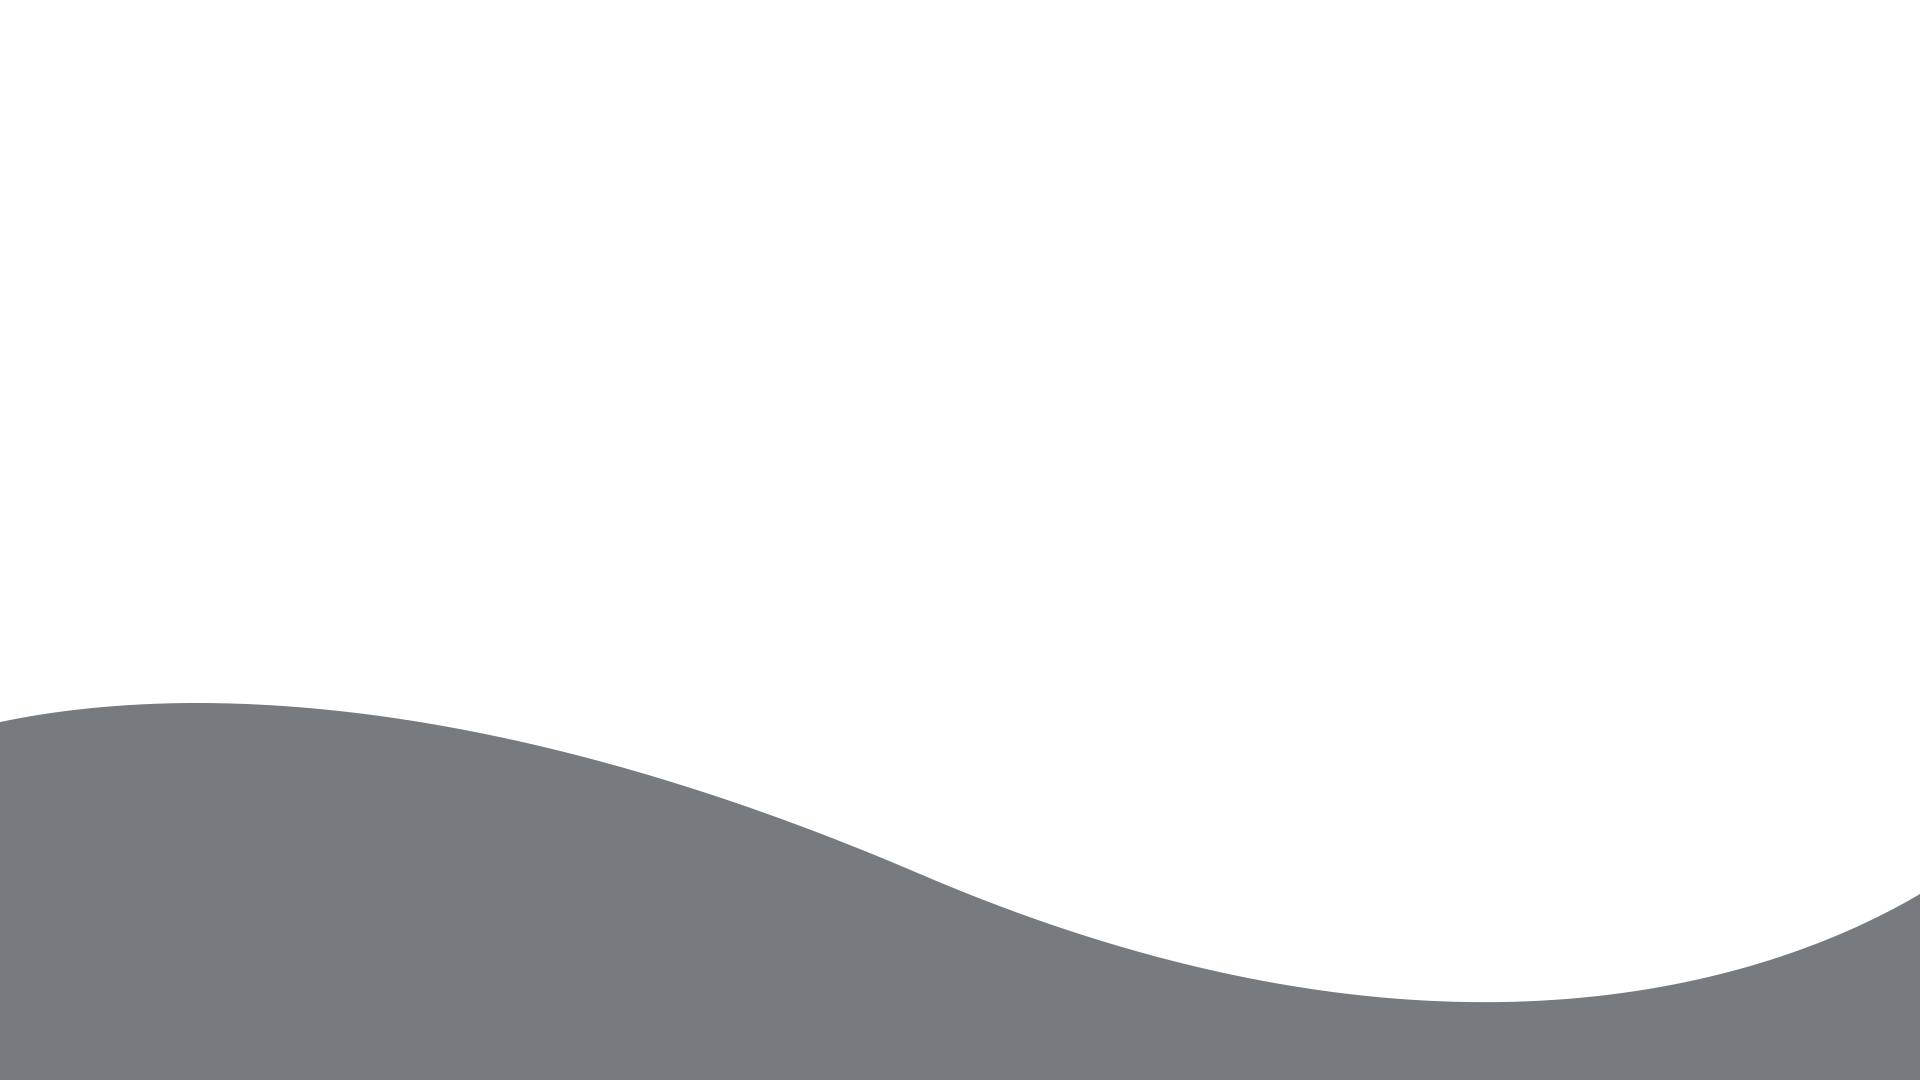
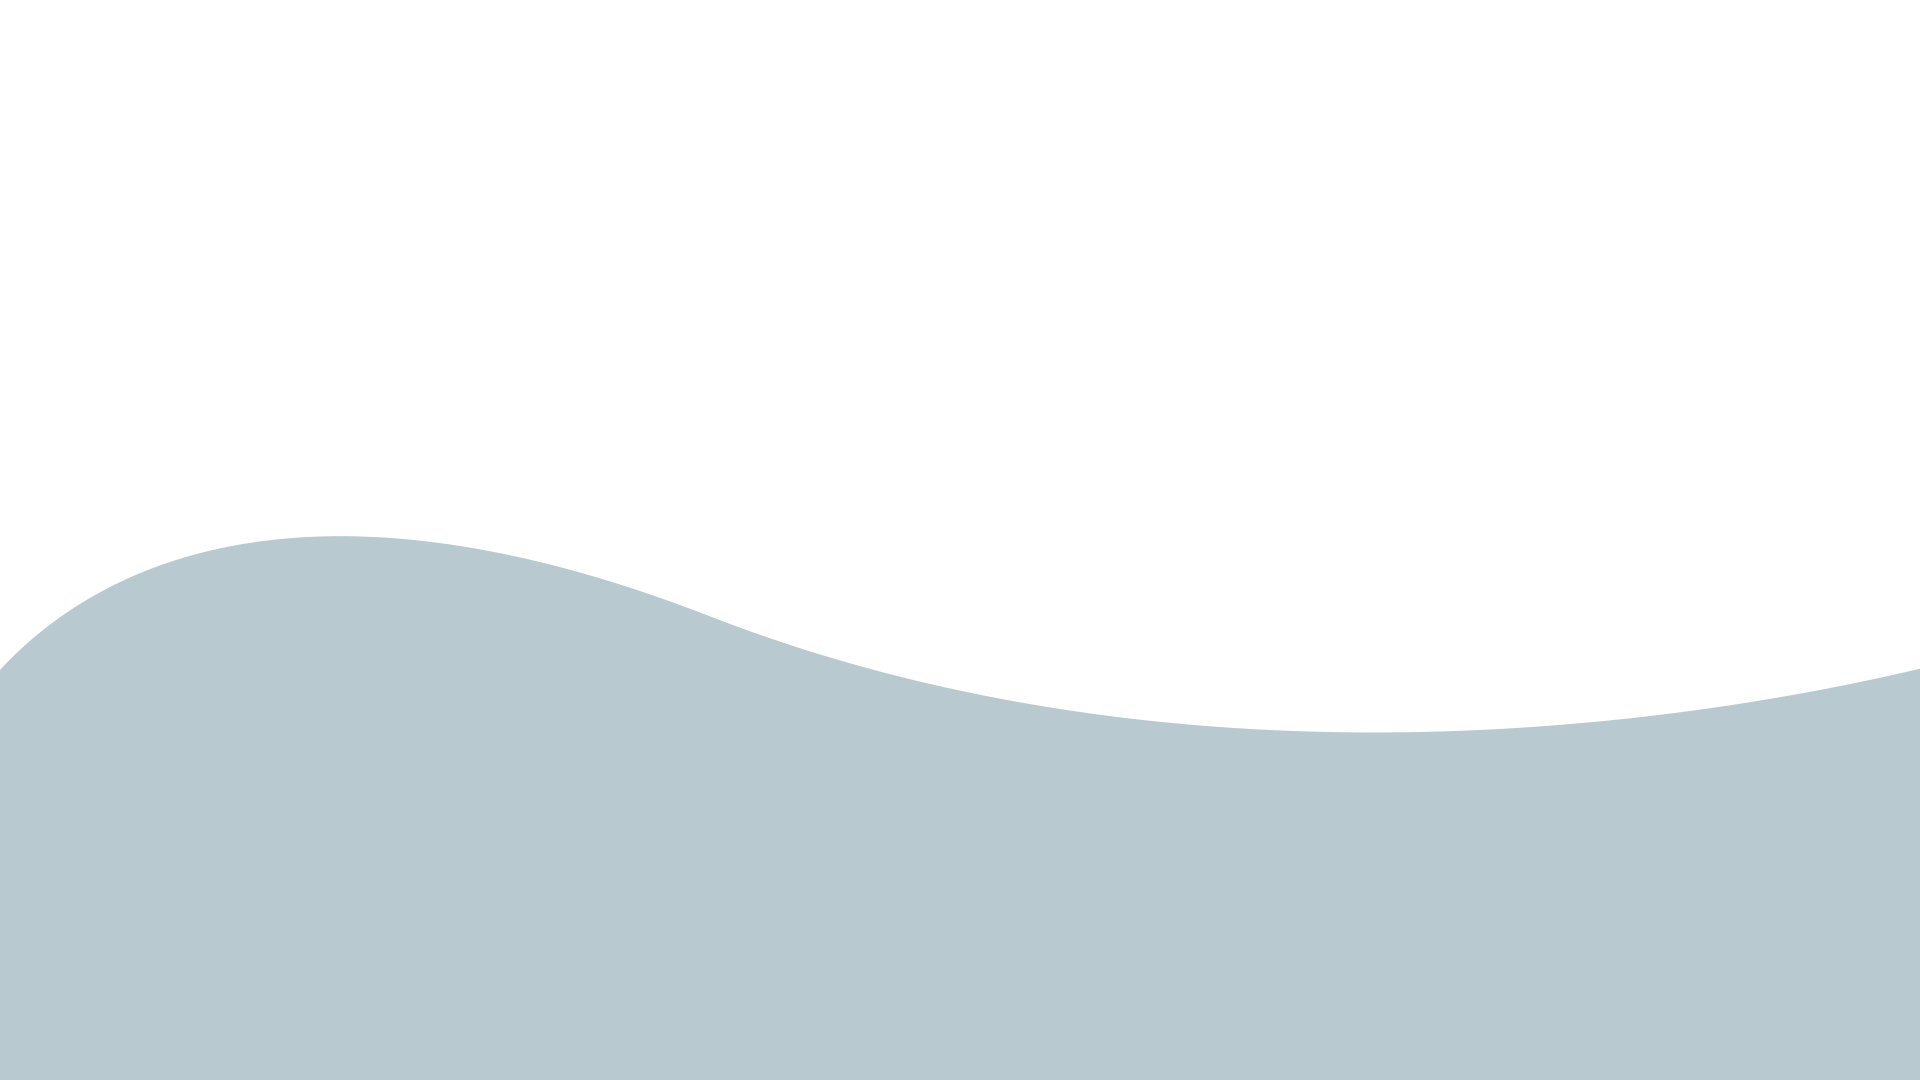
images changed

diff --git a/lib/widgets/parallax.dart b/lib/widgets/parallax.dart
@@ -9,8 +9,18 @@ class HomePage extends StatefulWidget {
 
 class _HomePageState extends State<HomePage> {
   
-  double topOne = 0;
-  double topTwo = 100;
+  double rateOne = 0;
+  double rateTwo = 0;
+  double rateThree = 0;
+  double rateFour = 0;
+  double rateFive = 0;
+  double rateSix = 0;
+  double rateSeven = 0;
+
+
+
+  late String asset;
+  late double top;
 
   @override
   Widget build(BuildContext context) {
@@ -19,8 +29,13 @@ class _HomePageState extends State<HomePage> {
         onNotification: (v) {
           if(v is ScrollUpdateNotification){
             setState(() {
-              topOne = topOne - v.scrollDelta! / 3;
-              topTwo = topTwo - v.scrollDelta! / 1;
+              rateSeven -= v.scrollDelta! / 1;
+              rateSix -= v.scrollDelta! / 1.5;
+              rateFive -= v.scrollDelta! / 2;
+              rateFour -= v.scrollDelta! / 2.5;
+              rateThree -= v.scrollDelta! / 3;
+              rateTwo -= v.scrollDelta! / 3.5;
+              rateOne -= v.scrollDelta! / 4;
             });
           }
           return false;
@@ -28,17 +43,15 @@ class _HomePageState extends State<HomePage> {
         child: Stack(
           children: <Widget>[
             
-            Positioned(
-              left: -45,
-              top: 0,
-              child: Container(
-                height: 550,
-                width: 900,
-                child: Image.asset("assets/parallax/7.png",
-                fit: BoxFit.cover,
-                ),
-              )
-            ),
+            ParallaxWidget(top: rateOne, asset: "1"),
+            ParallaxWidget(top: rateTwo, asset: "2"),
+            ParallaxWidget(top: rateThree, asset: "3"),
+            ParallaxWidget(top: rateFour, asset: "4"),
+            ParallaxWidget(top: rateFive, asset: "5"),
+            ParallaxWidget(top: rateSix, asset: "6"),
+            ParallaxWidget(top: rateSeven, asset: "7"),
+
+
 
             ListView(
               children: <Widget>[
@@ -52,6 +65,32 @@ class _HomePageState extends State<HomePage> {
           ],
         ),
       ),
+    );
+  }
+}
+
+class ParallaxWidget extends StatelessWidget {
+  const ParallaxWidget({
+    super.key,
+    required this.top,
+    required this.asset,
+  });
+
+  final double top;
+  final String asset;
+
+  @override
+  Widget build(BuildContext context) {
+    return Positioned(
+      left: -45,
+      top: top,
+      child: Container(
+        height: 550,
+        width: 900,
+        child: Image.asset("assets/$asset.png",
+        fit: BoxFit.cover,
+        ),
+      )
     );
   }
 }
